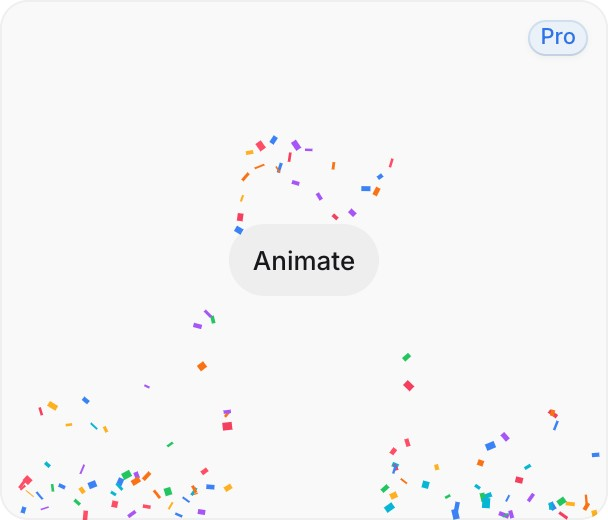
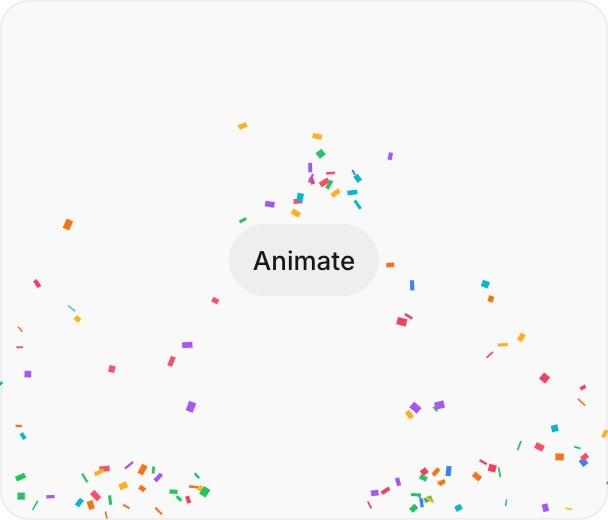
fix(builder): locked Pro picks wear the real Pro pill, not-allowed cursor
The Pro thumbnails are recaptured without the library page's badge; the
picker puts the site's .card-pro-badge in the thumbnail's corner at full
strength.

diff --git a/assets/community/community.js b/assets/community/community.js
@@ -935,9 +935,9 @@
     return proP;
   }
   function hasProPlan() { return !!(window.TransitionsPro && TransitionsPro.state && TransitionsPro.state.pro); }
-  function thumbUrl(slug, dark) {
+  function thumbUrl(slug, dark, pro) {
     // ?v= changes when the thumbnails are rebuilt (now 2x, without demo buttons).
-    return "assets/community/thumbs/" + encodeURIComponent(slug) + (dark ? "-dark" : "") + ".jpg?v=2";
+    return "assets/community/thumbs/" + encodeURIComponent(slug) + (dark ? "-dark" : "") + ".jpg?v=" + (pro ? 3 : 2);
   }
   var CLOSE_SVG = '<svg viewBox="0 0 16 16" fill="none" aria-hidden="true"><path d="M4 4l8 8M12 4l-8 8" stroke="currentColor" stroke-width="1.5" stroke-linecap="round"/></svg>';
   // The homepage's categories (Pro transitions are not remixable; free
@@ -996,9 +996,9 @@
             html += '<button type="button" class="cmdk-item cm-lib-item' + (t.locked ? " is-locked" : "") + '" role="option" data-i="' + i + '" data-active="' + (i === active) + '"' +
               (t.locked ? ' aria-disabled="true" aria-describedby="cm-lib-pro-note"' : "") + ">" +
               '<span class="cm-lib-thumb">' +
-                (t.locked ? '<span class="t-tt cm-lib-tip" aria-hidden="true">Available with Pro &amp; Business</span>' : "") +
-                '<img class="is-light" src="' + thumbUrl(t.slug) + '" alt="" width="296" height="260" loading="lazy" decoding="async" />' +
-                '<img class="is-dark" src="' + thumbUrl(t.slug, true) + '" alt="" width="296" height="260" loading="lazy" decoding="async" />' +
+                (t.locked ? '<span class="card-pro-badge" aria-hidden="true">Pro</span><span class="t-tt cm-lib-tip" aria-hidden="true">Available with Pro &amp; Business</span>' : "") +
+                '<img class="is-light" src="' + thumbUrl(t.slug, false, t.locked) + '" alt="" width="296" height="260" loading="lazy" decoding="async" />' +
+                '<img class="is-dark" src="' + thumbUrl(t.slug, true, t.locked) + '" alt="" width="296" height="260" loading="lazy" decoding="async" />' +
               "</span>" +
               '<span class="cm-lib-name">' + esc(t.title) + "</span>" +
             "</button>";

diff --git a/builder.html b/builder.html
@@ -2125,7 +2125,7 @@
     }
   </style>
   <link rel="stylesheet" href="assets/ui-generation/ui-generation.css?v=1" />
-  <link rel="stylesheet" href="assets/community/community.css?v=244" />
+  <link rel="stylesheet" href="assets/community/community.css?v=245" />
   <style>
 /* "Real patterns" card: a Community component generating on a loop
    (assets/community/ub-generate.js). The component sits under the copy,
@@ -3140,7 +3140,7 @@ html[data-theme="dark"] .t-gen.is-quiet { --gen-line: #3f3f3f; --gen-strong: #61
   <!-- Pro platform client: wires Get access / Sign in / account state to the API. -->
   <script src="assets/pro-client.js?v=67" defer></script>
 
-  <script src="assets/community/community.js?v=241" defer></script>
+  <script src="assets/community/community.js?v=242" defer></script>
   <script src="assets/community/beam.js?v=140" defer></script>
   <script src="assets/community/feed.js?v=150" defer></script>
   <script src="assets/brand-mark.js?v=4" defer></script>

diff --git a/assets/community/community.css b/assets/community/community.css
@@ -2386,7 +2386,10 @@ html[data-theme="dark"] .cm-lib .cm-lib-item:hover, html[data-theme="dark"] .cm-
 /* Pro transitions for free accounts: shown, locked. The thumbnail dims and
    the tooltip (the site's .t-tt bubble) says where they are available; it
    shows on hover and on the keyboard highlight. */
-.cm-lib .cm-lib-item.is-locked { cursor: default; }
+.cm-lib .cm-lib-item.is-locked { cursor: not-allowed; }
+/* The site's Pro pill (pro-client.js .card-pro-badge), in the thumbnail's
+   corner at full strength. */
+.cm-lib-thumb .card-pro-badge { top: 8px; right: 8px; z-index: 2; }
 .cm-lib .cm-lib-item.is-locked:hover, .cm-lib .cm-lib-item.is-locked[data-active="true"] { background: none; }
 .cm-lib-item.is-locked .cm-lib-thumb img { opacity: 0.45; }
 .cm-lib-item.is-locked .cm-lib-name { color: var(--text-muted); }

diff --git a/studio.html b/studio.html
@@ -2124,7 +2124,7 @@
       .nav-pill { padding: 0 9px; }
     }
   </style>
-  <link rel="stylesheet" href="assets/community/community.css?v=244" />
+  <link rel="stylesheet" href="assets/community/community.css?v=245" />
 </head>
 <body>
   <a href="#main" class="skip-link">Skip to content</a>
@@ -3250,7 +3250,7 @@
   <!-- Pro platform client: wires Get access / Sign in / account state to the API. -->
   <script src="assets/pro-client.js?v=67" defer></script>
 
-  <script src="assets/community/community.js?v=241" defer></script>
+  <script src="assets/community/community.js?v=242" defer></script>
   <script src="assets/community/controls.js?v=140" defer></script>
   <script src="assets/community/studio.js?v=240" defer></script>
   <script src="assets/brand-mark.js?v=4" defer></script>

diff --git a/projects.html b/projects.html
@@ -2124,7 +2124,7 @@
       .nav-pill { padding: 0 9px; }
     }
   </style>
-  <link rel="stylesheet" href="assets/community/community.css?v=244" />
+  <link rel="stylesheet" href="assets/community/community.css?v=245" />
 </head>
 <body>
   <a href="#main" class="skip-link">Skip to content</a>
@@ -2949,7 +2949,7 @@
   <!-- Pro platform client: wires Get access / Sign in / account state to the API. -->
   <script src="assets/pro-client.js?v=67" defer></script>
 
-  <script src="assets/community/community.js?v=241" defer></script>
+  <script src="assets/community/community.js?v=242" defer></script>
   <script src="assets/community/projects.js?v=140" defer></script>
   <script src="assets/brand-mark.js?v=4" defer></script>
   <script src="assets/nav-products.js?v=7" defer></script>

diff --git a/profile.html b/profile.html
@@ -2124,7 +2124,7 @@
       .nav-pill { padding: 0 9px; }
     }
   </style>
-  <link rel="stylesheet" href="assets/community/community.css?v=244" />
+  <link rel="stylesheet" href="assets/community/community.css?v=245" />
 </head>
 <body>
   <a href="#main" class="skip-link">Skip to content</a>
@@ -2965,7 +2965,7 @@
   <!-- Pro platform client: wires Get access / Sign in / account state to the API. -->
   <script src="assets/pro-client.js?v=67" defer></script>
 
-  <script src="assets/community/community.js?v=241" defer></script>
+  <script src="assets/community/community.js?v=242" defer></script>
   <script src="assets/community/profile.js?v=215" defer></script>
   <script src="assets/brand-mark.js?v=4" defer></script>
   <script src="assets/nav-products.js?v=7" defer></script>

diff --git a/community.html b/community.html
@@ -2124,7 +2124,7 @@
       .nav-pill { padding: 0 9px; }
     }
   </style>
-  <link rel="stylesheet" href="assets/community/community.css?v=244" />
+  <link rel="stylesheet" href="assets/community/community.css?v=245" />
 </head>
 <body>
   <a href="#main" class="skip-link">Skip to content</a>
@@ -2948,7 +2948,7 @@
   <!-- Pro platform client: wires Get access / Sign in / account state to the API. -->
   <script src="assets/pro-client.js?v=67" defer></script>
 
-  <script src="assets/community/community.js?v=241" defer></script>
+  <script src="assets/community/community.js?v=242" defer></script>
   <script src="assets/community/feed.js?v=150" defer></script>
   <script src="assets/brand-mark.js?v=4" defer></script>
   <script src="assets/nav-products.js?v=7" defer></script>
